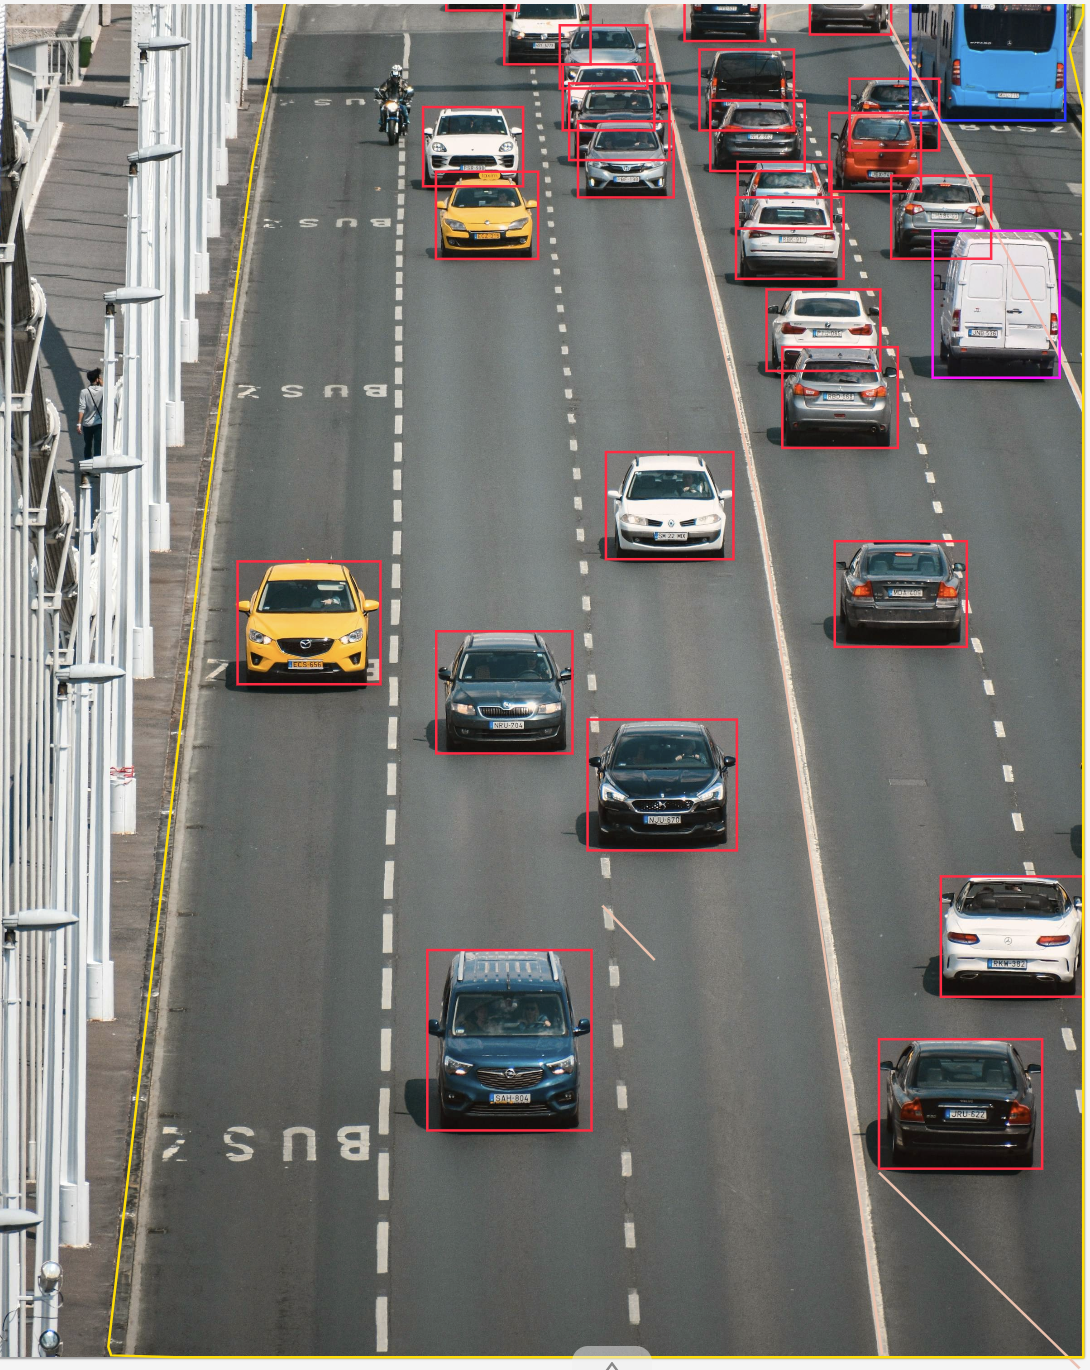
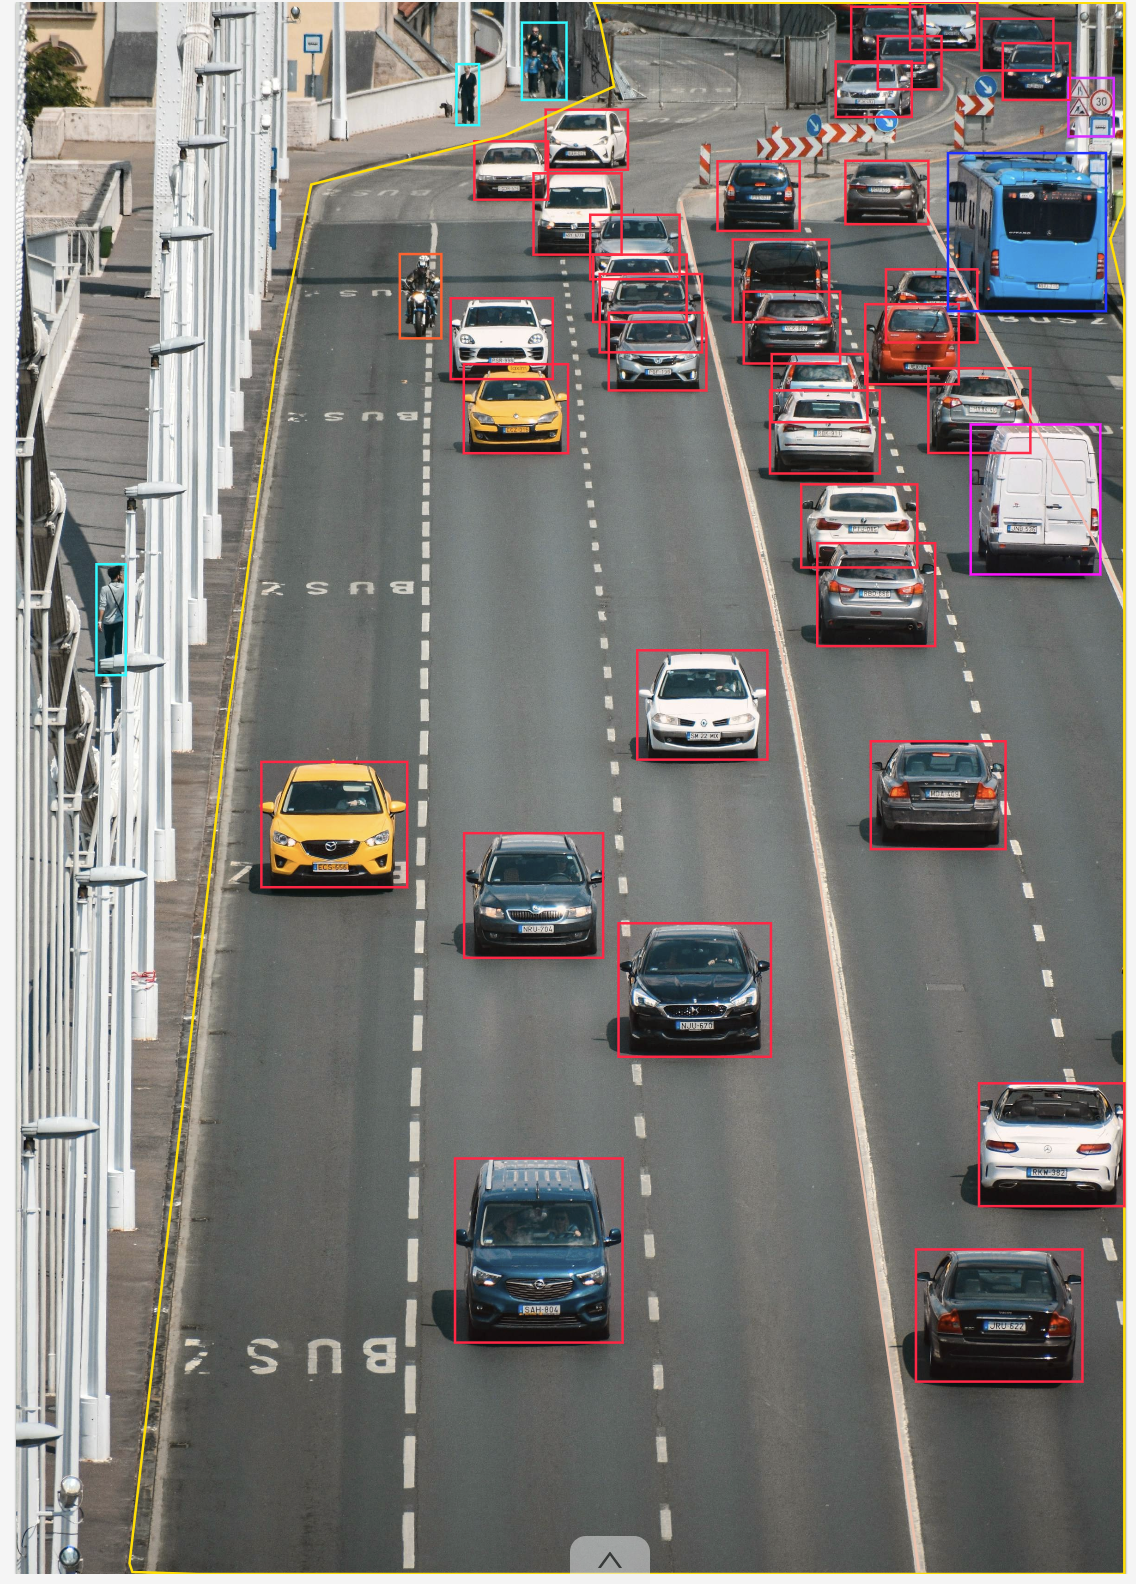
Update urban street project with second review pass
Added missed motorcycle, pedestrians and traffic sign in the highway
scene and split group boxes into one box per car (68 -> 79 objects).
New highway preview and regenerated statistics.

diff --git a/annotation-portfolio/projects/01-object-detection-bboxes/README.md b/annotation-portfolio/projects/01-object-detection-bboxes/README.md
@@ -5,7 +5,7 @@
 | **Annotation types** | Bounding boxes, polygons, polylines, points, ellipses, cuboids |
 | **Tool** | CVAT (cvat.ai cloud) |
 | **Export format** | CVAT for images 1.1 (convertible to COCO JSON, YOLO, Pascal VOC) |
-| **Scale** | 3 street scenes · 68 objects · 13 labels |
+| **Scale** | 3 street scenes · 79 objects · 15 labels |
 | **Date** | November 2026 |
 
 ## Brief
@@ -22,12 +22,14 @@ driver-assistance and traffic analysis: vehicles, people, signs, and road layout
 | Car | box | passenger cars and taxis |
 | Bus | box | buses |
 | Van | box | vans |
+| Motorcycle | box | motorcycles (rider included in the box) |
 | Bicycle | box | bicycles (the rider is a separate Person) |
 | Person | box | pedestrians and cyclists |
 | pedestrian | cuboid | 3D box for people close to the camera |
 | face-ellipse | ellipse | faces |
 | eye-point | points | eye positions |
-| sign-label | box | traffic and pedestrian signs |
+| sign-label | box | traffic and pedestrian signs (street scene) |
+| Traffic Sign | box | traffic signs (highway scene) |
 | road | polygon | drivable road surface |
 | lane-line | polyline | painted lane and edge markings |
 | zebra-road | polygon | crosswalk outline |
@@ -36,7 +38,7 @@ driver-assistance and traffic analysis: vehicles, people, signs, and road layout
 ## Guidelines I followed
 
 - Tight boxes touching the outermost visible pixels of each object
-- One box per object, including small and distant vehicles in dense traffic (up to 33 objects in one image)
+- One box per object, including small and distant vehicles in dense traffic (up to 44 objects in one image)
 - Cyclists labelled as two objects: **Person** + **Bicycle**
 - Road and crosswalk traced as polygons along the visible edges; lane markings as polylines
 - Every object in an image labelled before moving on; nothing left half-done
@@ -45,6 +47,7 @@ driver-assistance and traffic analysis: vehicles, people, signs, and road layout
 
 - Reviewed every image after the first pass, zoomed in, to catch missed small objects
 - Cleaned up the label set: merged duplicate crosswalk labels into `zebra-road` / `zebra-road-box` and removed stray lane-lines
+- Second review pass: added a missed motorcycle, pedestrians and a sign, and split group boxes on distant cars into one box per car
 - Re-exported and re-checked the counts below against the screenshots
 
 ## Image credits
@@ -60,28 +63,30 @@ Generated from the CVAT exports in `export/` by `tools/cvat_showcase.py`. Full t
 | Metric | Value |
 |---|---|
 | Annotated images | 3 |
-| Objects | 68 |
-| Avg objects per annotated image | 22.7 |
-| Max objects in one image | 33 |
+| Objects | 79 |
+| Avg objects per annotated image | 26.3 |
+| Max objects in one image | 44 |
 | Marked occluded | 0% |
 
 **Annotations by label**
 
 | Label | Box | Polygon | Polyline | Points | Ellipse | Cuboid | Total |
 |---|--:|--:|--:|--:|--:|--:|--:|
-| Car | 32 |  |  |  |  |  | 32 |
-| Person | 13 |  |  |  |  |  | 13 |
+| Car | 38 |  |  |  |  |  | 38 |
+| Person | 16 |  |  |  |  |  | 16 |
 | sign-label | 5 |  |  |  |  |  | 5 |
 | road |  | 3 |  |  |  |  | 3 |
 | lane-line |  |  | 3 |  |  |  | 3 |
 | Bus | 2 |  |  |  |  |  | 2 |
-| eye-point |  |  |  | 2 |  |  | 2 |
 | face-ellipse |  |  |  |  | 2 |  | 2 |
 | pedestrian |  |  |  |  |  | 2 | 2 |
+| eye-point |  |  |  | 2 |  |  | 2 |
 | Bicycle | 1 |  |  |  |  |  | 1 |
 | zebra-road |  | 1 |  |  |  |  | 1 |
 | zebra-road-box | 1 |  |  |  |  |  | 1 |
 | Van | 1 |  |  |  |  |  | 1 |
+| Motorcycle | 1 |  |  |  |  |  | 1 |
+| Traffic Sign | 1 |  |  |  |  |  | 1 |
 <!-- STATS:END -->
 
 ## Annotated samples

diff --git a/annotation-portfolio/projects/01-object-detection-bboxes/STATS.md b/annotation-portfolio/projects/01-object-detection-bboxes/STATS.md
@@ -5,25 +5,27 @@ Generated from `export/annotations.xml`, `export/annotations_car-street.xml` by 
 | Metric | Value |
 |---|---|
 | Annotated images | 3 |
-| Objects | 68 |
-| Avg objects per annotated image | 22.7 |
-| Max objects in one image | 33 |
+| Objects | 79 |
+| Avg objects per annotated image | 26.3 |
+| Max objects in one image | 44 |
 | Marked occluded | 0% |
 
 **Annotations by label**
 
 | Label | Box | Polygon | Polyline | Points | Ellipse | Cuboid | Total |
 |---|--:|--:|--:|--:|--:|--:|--:|
-| Car | 32 |  |  |  |  |  | 32 |
-| Person | 13 |  |  |  |  |  | 13 |
+| Car | 38 |  |  |  |  |  | 38 |
+| Person | 16 |  |  |  |  |  | 16 |
 | sign-label | 5 |  |  |  |  |  | 5 |
 | road |  | 3 |  |  |  |  | 3 |
 | lane-line |  |  | 3 |  |  |  | 3 |
 | Bus | 2 |  |  |  |  |  | 2 |
-| eye-point |  |  |  | 2 |  |  | 2 |
 | face-ellipse |  |  |  |  | 2 |  | 2 |
 | pedestrian |  |  |  |  |  | 2 | 2 |
+| eye-point |  |  |  | 2 |  |  | 2 |
 | Bicycle | 1 |  |  |  |  |  | 1 |
 | zebra-road |  | 1 |  |  |  |  | 1 |
 | zebra-road-box | 1 |  |  |  |  |  | 1 |
 | Van | 1 |  |  |  |  |  | 1 |
+| Motorcycle | 1 |  |  |  |  |  | 1 |
+| Traffic Sign | 1 |  |  |  |  |  | 1 |

diff --git a/README.md b/README.md
@@ -6,7 +6,7 @@ A collection of my work. Each folder is a self-contained project.
 
 | Project | What it is | Highlights |
 |---------|------------|------------|
-| [Data Annotation Portfolio](annotation-portfolio) | Images I annotated in CVAT, with exported labels, statistics and annotated samples | 3 street scenes · 68 objects · 6 shape types (boxes, polygons, polylines, points, ellipses, cuboids) |
+| [Data Annotation Portfolio](annotation-portfolio) | Images I annotated in CVAT, with exported labels, statistics and annotated samples | 3 street scenes · 79 objects · 6 shape types (boxes, polygons, polylines, points, ellipses, cuboids) |
 
 <img src="annotation-portfolio/projects/01-object-detection-bboxes/previews/sample_02.png" width="49%" alt="Annotated highway scene"> <img src="annotation-portfolio/projects/01-object-detection-bboxes/previews/sample_03.png" width="49%" alt="Annotated city street">
 

diff --git a/annotation-portfolio/README.md b/annotation-portfolio/README.md
@@ -14,7 +14,7 @@ CVAT projects I have annotated, with the exported labels, previews and statistic
 
 | # | Project | Annotation types | Scale | Preview |
 |---|---------|------------------|-------|---------|
-| 1 | [Urban street scenes](projects/01-object-detection-bboxes) | Boxes, polygons, polylines, points, ellipses, cuboids | 3 images · 68 objects | <img src="projects/01-object-detection-bboxes/previews/sample_01.png" width="180"> |
+| 1 | [Urban street scenes](projects/01-object-detection-bboxes) | Boxes, polygons, polylines, points, ellipses, cuboids | 3 images · 79 objects | <img src="projects/01-object-detection-bboxes/previews/sample_01.png" width="180"> |
 
 Each project folder has a README with the brief, label schema, guidelines, quality checks,
 statistics and annotated samples. The statistics come straight from the CVAT export.
